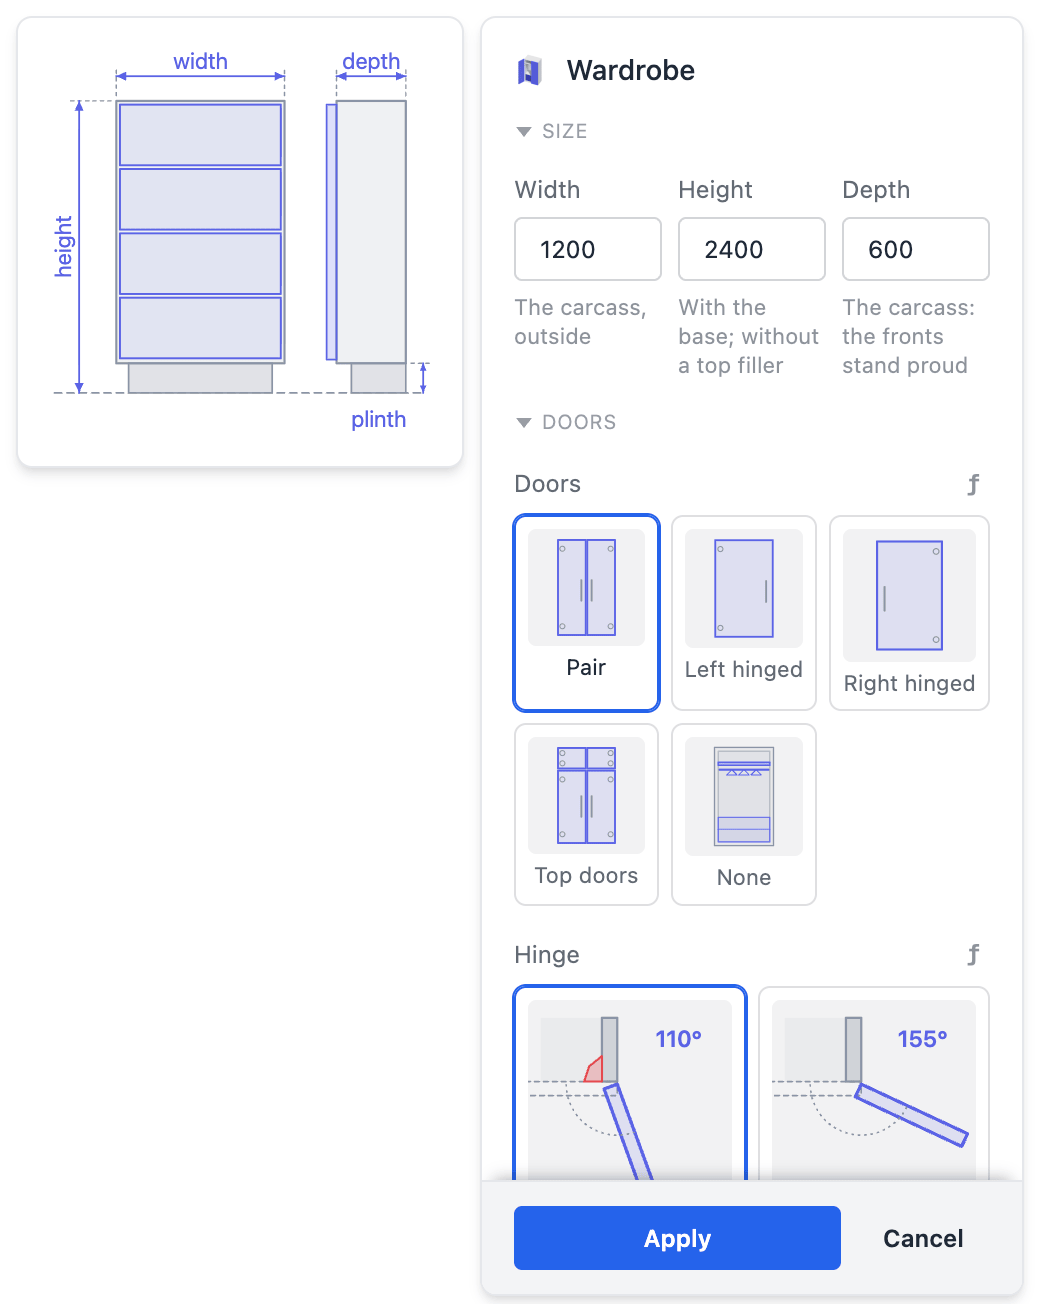
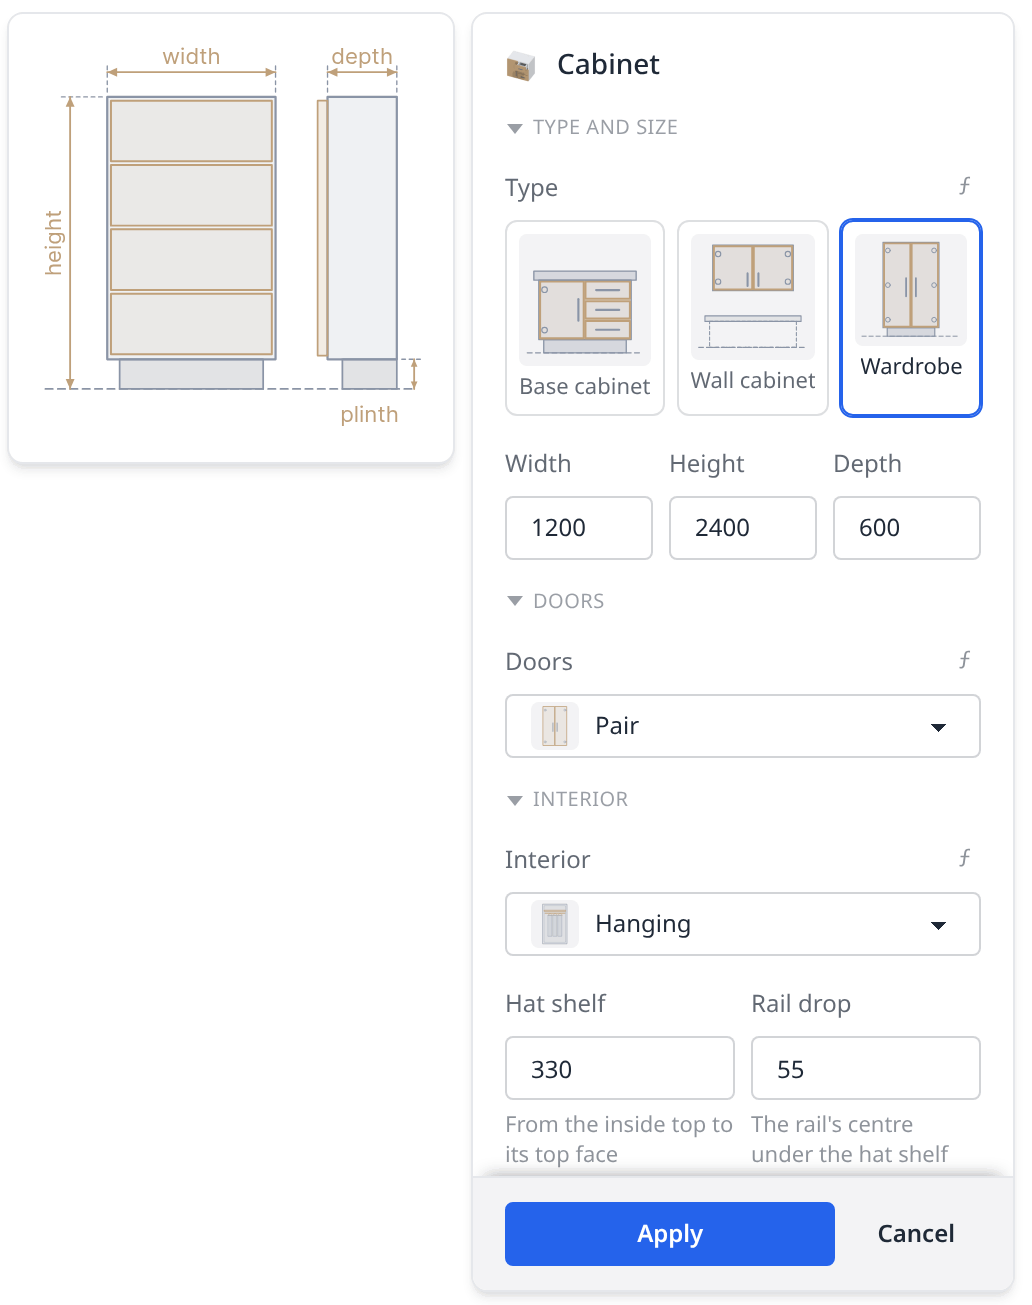
docs(assembly): generated assemblies shown with the cabinets package's Cabinet

diff --git a/website/docs/assembly/_examples/asm-generated-wardrobe.assembly.js b/website/docs/assembly/_examples/asm-generated-wardrobe.assembly.js
@@ -1,17 +1,17 @@
 // @screenshot skip
 import { assembly, insert } from 'fluidcad/core';
 // highlight-next-line
-import { wardrobeAssembly } from '@fluidcad/cabinets'; // a generated assembly, imported by the package's name
+import { cabinetAssembly } from '@fluidcad/cabinets'; // a generated assembly, imported by the package's name
 
 export const bedroom = assembly('bedroom', () => {
-  // Written by the Wardrobe dialog's Apply: the values you changed, by id.
-  // Every other value is the wardrobe's default. Edit parameters… merges a
-  // change into this object; Toggle grounded on the header added .grounded().
+  // Written by the Cabinet dialog's Apply: the values you changed, by id.
+  // Every other value is the cabinet's default for a wardrobe. Edit parameters…
+  // merges a change into this object; Toggle grounded on the header added .grounded().
   // highlight-next-line
-  const wardrobeAssembly1 = insert(wardrobeAssembly, { width: 1200, drawers: 3, drawerPlacement: 'outside' }).name('wardrobeAssembly1').grounded();
+  const cabinetAssembly1 = insert(cabinetAssembly, { type: 'wardrobe', width: 1200, drawerPlacement: 'outside', drawers: 3 }).name('cabinetAssembly1').grounded();
 
   // The carcass, the doors, the drawers and the joints between them are not
-  // in this file: the wardrobe makes them from its values. An assembly mates
+  // in this file: the cabinet makes them from its values. An assembly mates
   // to them through the occurrence's parts, as it would a sub-assembly's:
-  // wardrobeAssembly1.parts.carcass.connectors.<name>.
+  // cabinetAssembly1.parts.carcass.connectors.<name>.
 });
